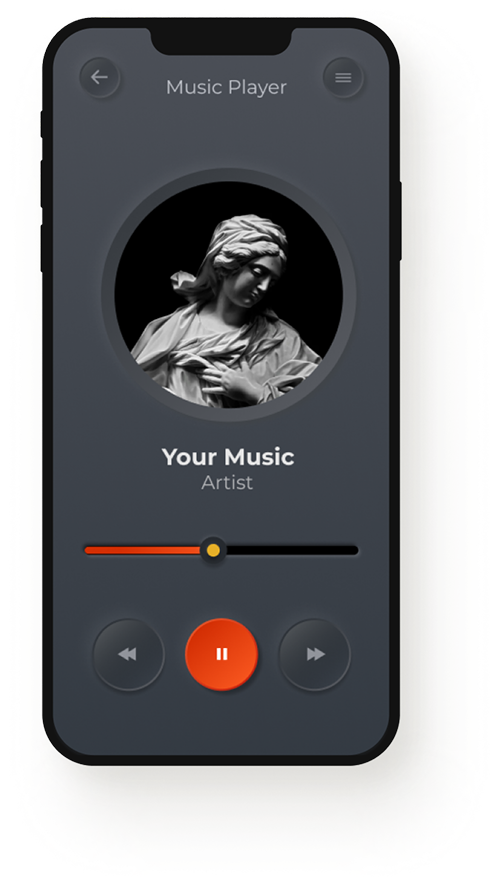
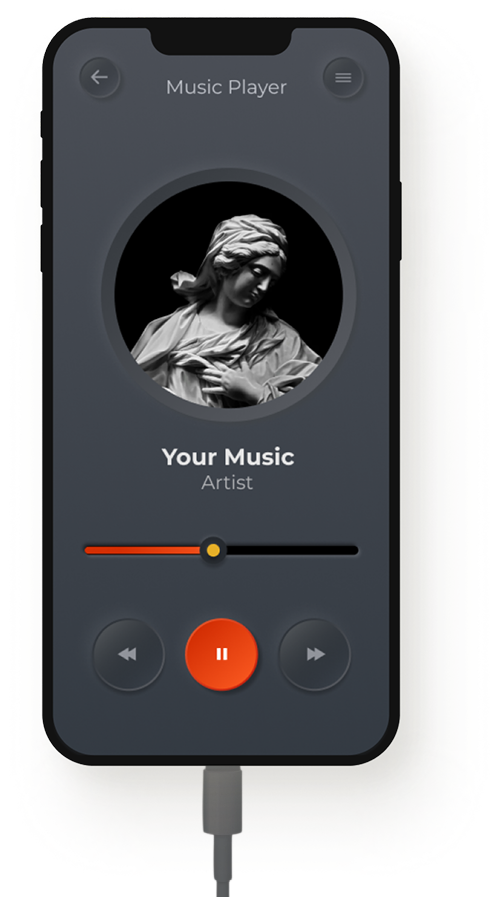
Header ready

diff --git a/index.html b/index.html
@@ -36,6 +36,9 @@
                         <p>American company formed in 2002 in Boston, Massachusetts</p>
                     </li>
                 </ul>
+                <div>
+                    <img src="images/phone.png" width="200" height="400">
+                </div>
             </div>
         
     </header>
